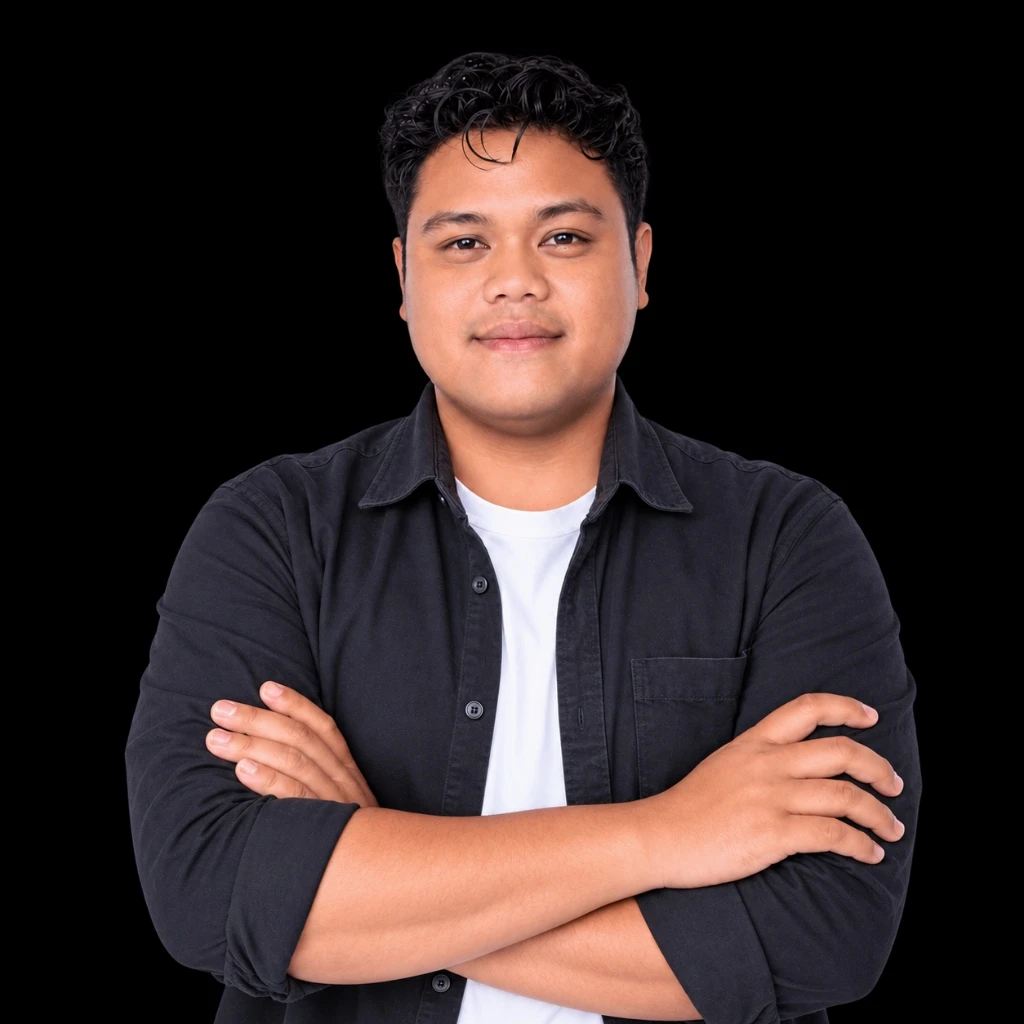
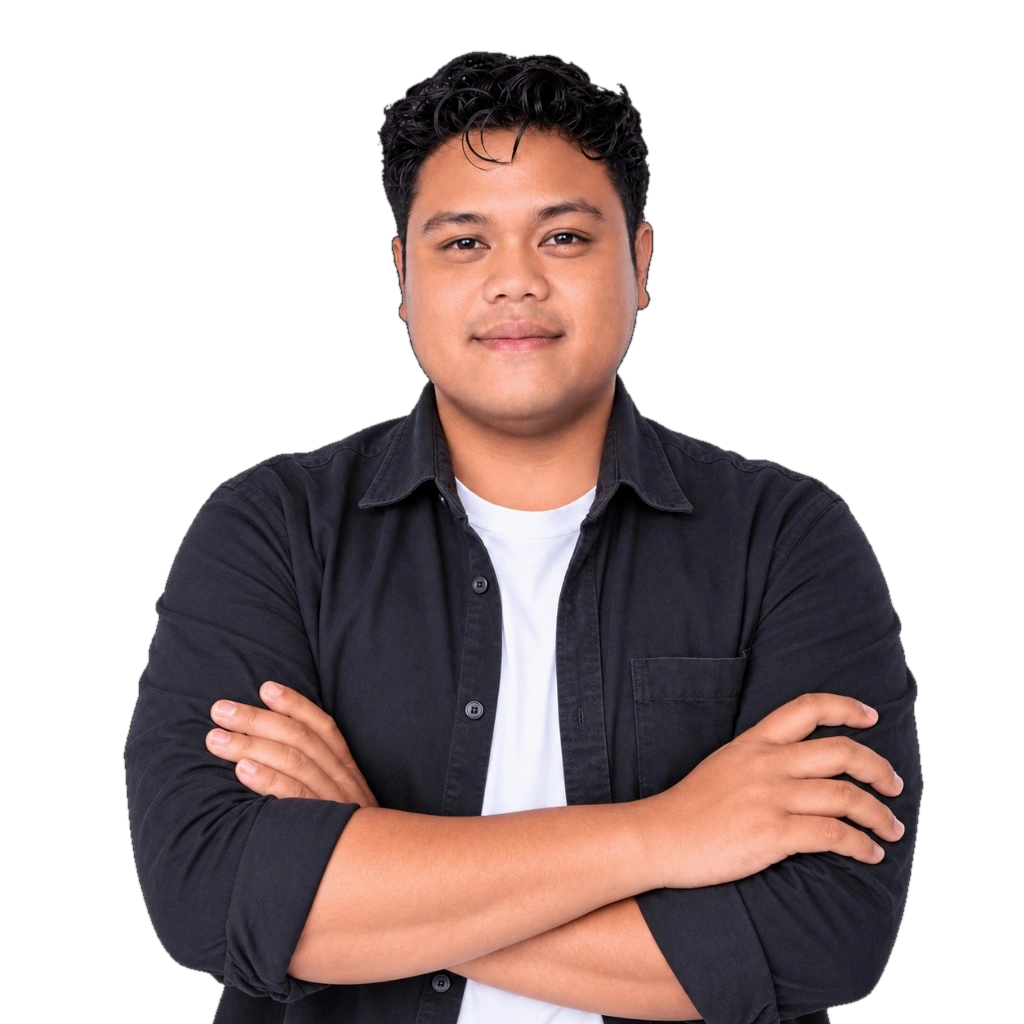
fix(hero): make portrait background transparent and seamless on both light and dark modes

diff --git a/src/components/tabs/HomeTab.tsx b/src/components/tabs/HomeTab.tsx
@@ -87,21 +87,21 @@ export default function HomeTab({ onNavigateTab }: HomeTabProps = {}) {
             </div>
           </div>
 
-          {/* Right: Prominent Hero Portrait Photo */}
-          <div className="shrink-0 self-center md:self-center flex justify-center w-full md:w-auto">
+          {/* Right: Seamless Transparent Portrait */}
+          <div className="shrink-0 self-center md:self-end flex justify-center w-full md:w-auto">
             <div className="relative group">
-              {/* Subtle ambient glow behind portrait */}
-              <div className="absolute -inset-2 bg-gradient-to-br from-accent/25 via-accent/10 to-transparent rounded-2xl blur-xl opacity-40 group-hover:opacity-75 transition duration-500" />
+              {/* Subtle ambient accent aura behind portrait */}
+              <div className="absolute -inset-4 bg-gradient-to-tr from-accent/20 to-transparent rounded-full blur-2xl opacity-40 group-hover:opacity-75 transition duration-500 pointer-events-none" />
 
-              <div className="relative w-48 sm:w-56 md:w-64 lg:w-72 aspect-[4/5] rounded-2xl overflow-hidden border border-border/80 bg-surface shadow-2xl">
+              <div className="relative w-52 sm:w-60 md:w-72 lg:w-80 h-auto">
                 <Image
                   src={avatarSrc}
                   alt={name}
-                  width={640}
-                  height={800}
-                  className="w-full h-full object-cover object-top group-hover:scale-[1.02] transition-transform duration-500"
+                  width={720}
+                  height={720}
+                  className="w-full h-auto object-contain drop-shadow-[0_15px_30px_rgba(0,0,0,0.18)] dark:drop-shadow-[0_15px_30px_rgba(0,0,0,0.5)] group-hover:scale-[1.02] transition-transform duration-500"
                   priority
-                  sizes="(max-width: 640px) 192px, (max-width: 768px) 224px, 288px"
+                  sizes="(max-width: 640px) 208px, (max-width: 768px) 240px, 320px"
                   unoptimized
                 />
               </div>
